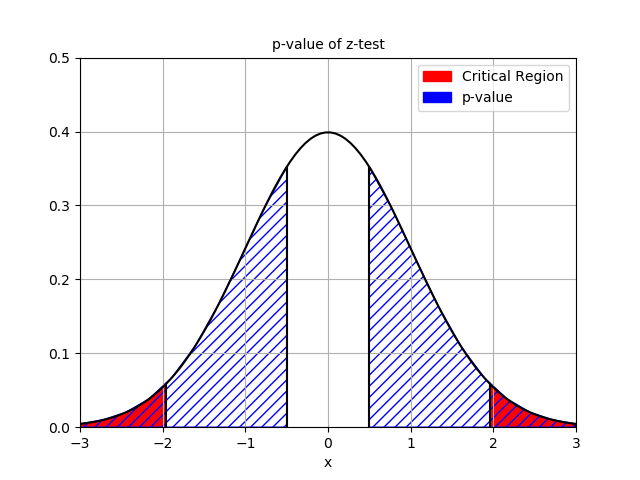
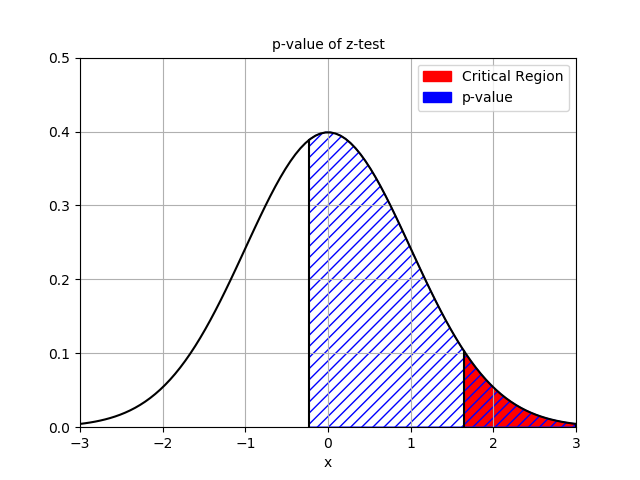
Tails

Changed region(s): [[0.125, 0.2812, 0.5938, 0.9062], [0.7188, 0.7188, 0.7812, 0.9062]]

diff --git a/statistical_hypothesis_testing/plots/plots_z_test.py b/statistical_hypothesis_testing/plots/plots_z_test.py
@@ -34,8 +34,13 @@ def create_critical_region_plot(alphas=[0.05, ], tails=Tail.TWO_TAILED, x_min=-3
 
     legend_patches = []
     for alpha, color in alphas_with_colors:
-        generate_area(x_min, norm.ppf(alpha/2), str(color))
-        generate_area(norm.ppf(1 - alpha/2), x_max, str(color))
+        if tails == Tail.TWO_TAILED:
+            generate_area(x_min, norm.ppf(alpha/2), str(color))
+            generate_area(norm.ppf(1 - alpha/2), x_max, str(color))
+        elif tails == Tail.LEFT_TAILED:
+            generate_area(x_min, norm.ppf(alpha), str(color))
+        elif tails == Tail.RIGHT_TAILED:
+            generate_area(norm.ppf(1 - alpha), x_max, str(color))
         legend_patches.append(mpatches.Patch(color=str(color), label=r'$\alpha = {:.2f} $'.format(alpha)))
 
     plt.legend(handles=legend_patches)
@@ -65,7 +70,7 @@ def create_p_value_plot(statistics,alpha=0.05, tails=Tail.TWO_TAILED, x_min=-3, 
         pt2 = x2
         plt.plot([pt2 ,pt2 ],[0.0,scipy.stats.norm.pdf(pt2)], color='black')
 
-        ptx = np.linspace(pt1, pt2, 10)
+        ptx = np.linspace(pt1, pt2, 100)
         pty = scipy.stats.norm.pdf(ptx)
 
         plt.fill_between(ptx, pty, facecolor=color, alpha='1.0', hatch=hatch, edgecolor=edgecolor)
@@ -73,12 +78,19 @@ def create_p_value_plot(statistics,alpha=0.05, tails=Tail.TWO_TAILED, x_min=-3, 
 
     legend_patches = []
 
-    generate_area(x_min, norm.ppf(alpha/2), 'red')
-    generate_area(norm.ppf(1 - alpha/2), x_max, 'red')
-    legend_patches.append(mpatches.Patch(color='red', label='Critical Region'.format(alpha)))
+    if tails == Tail.TWO_TAILED:
+        generate_area(x_min, norm.ppf(alpha/2), 'red')
+        generate_area(norm.ppf(1 - alpha/2), x_max, 'red')
+        generate_area(x_min, -abs(statistics), 'none', hatch='///', edgecolor='blue')
+        generate_area(abs(statistics), x_max, 'none', hatch='///', edgecolor='blue')
+    elif tails == Tail.LEFT_TAILED:
+        generate_area(x_min, norm.ppf(alpha), 'red')
+        generate_area(x_min, statistics, 'none', hatch='///', edgecolor='blue')
+    elif tails == Tail.RIGHT_TAILED:
+        generate_area(norm.ppf(1 - alpha), x_max, 'red')
+        generate_area(statistics, x_max, 'none', hatch='///', edgecolor='blue')
 
-    generate_area(x_min, -abs(statistics), 'none', hatch='///', edgecolor='blue')
-    generate_area(abs(statistics), x_max, 'none', hatch='///', edgecolor='blue')
+    legend_patches.append(mpatches.Patch(color='red', label='Critical Region'.format(alpha)))
     legend_patches.append(mpatches.Patch(color='blue', label='p-value'.format(alpha)))
 
     plt.legend(handles=legend_patches)

diff --git a/main.py b/main.py
@@ -1,5 +1,5 @@
 from statistical_hypothesis_testing.plots import plots_z_test
+from statistical_hypothesis_testing.tails import Tail
 
 
-plots_z_test.create_p_value_plot(0.5)
-
+plots_z_test.create_p_value_plot(-0.2269, alpha=0.05, tails=Tail.RIGHT_TAILED)
